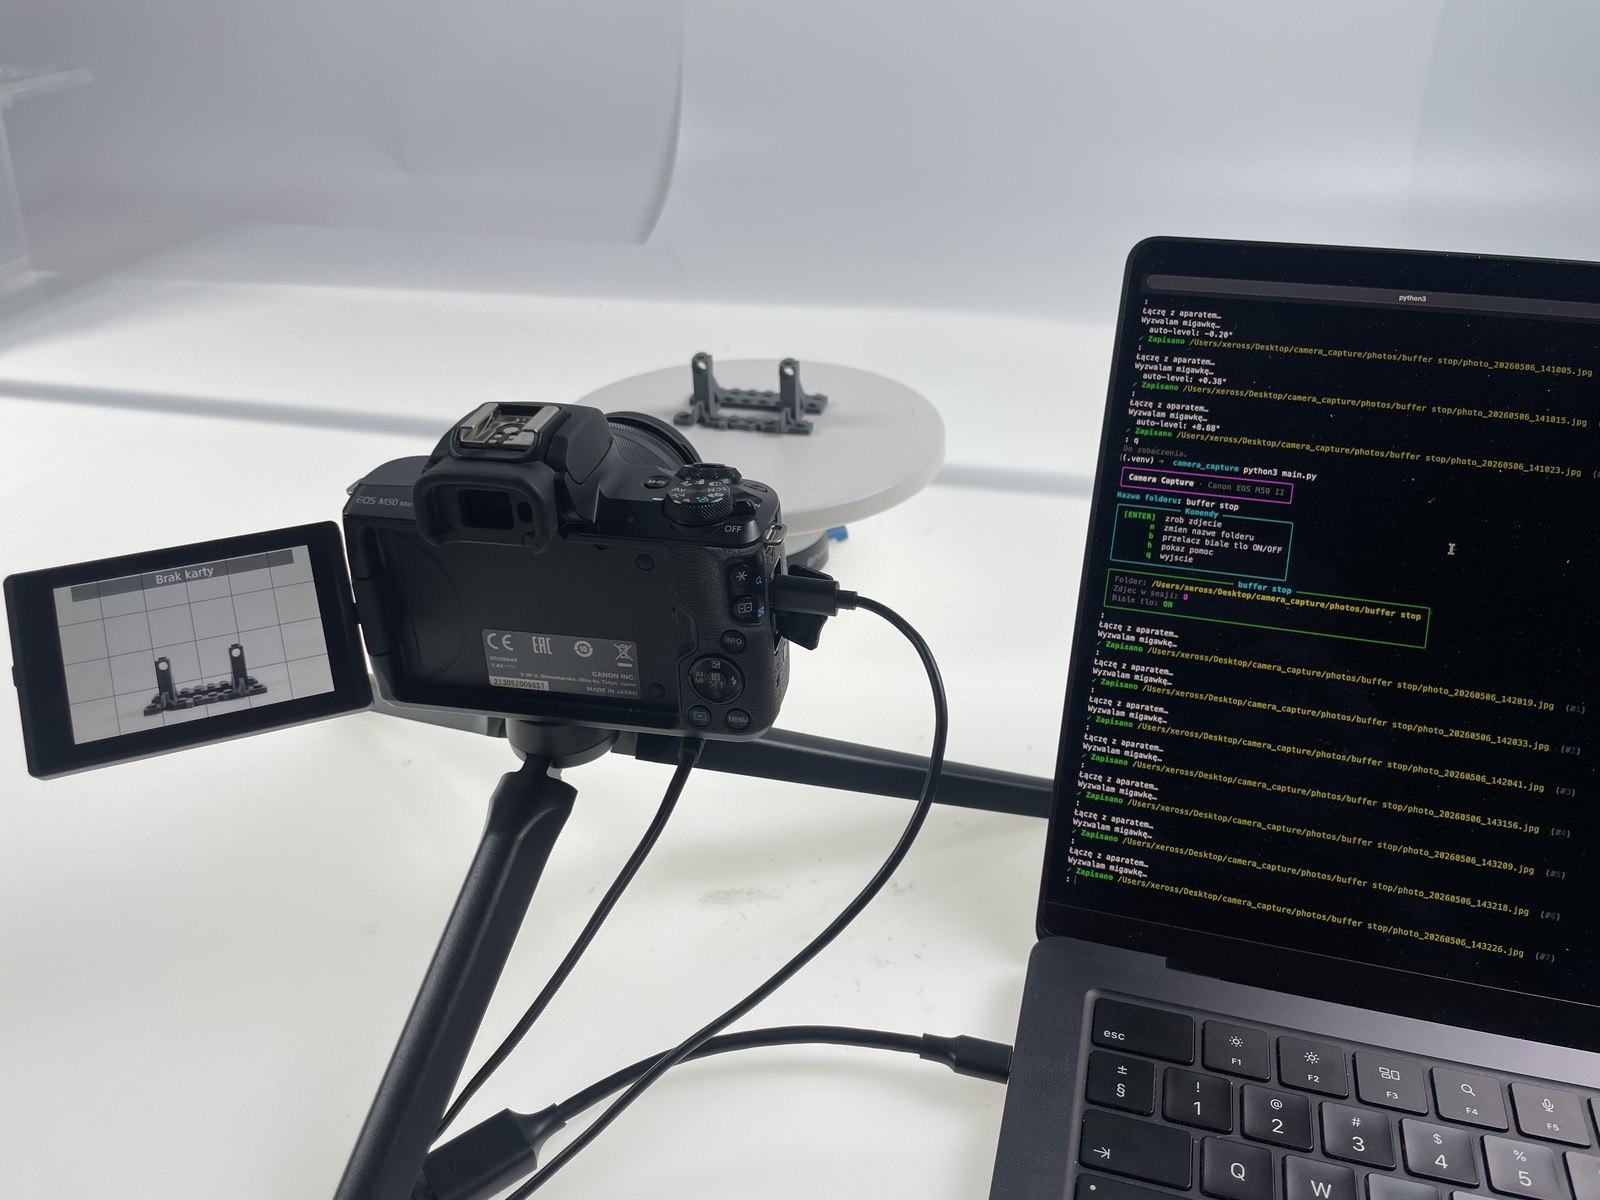
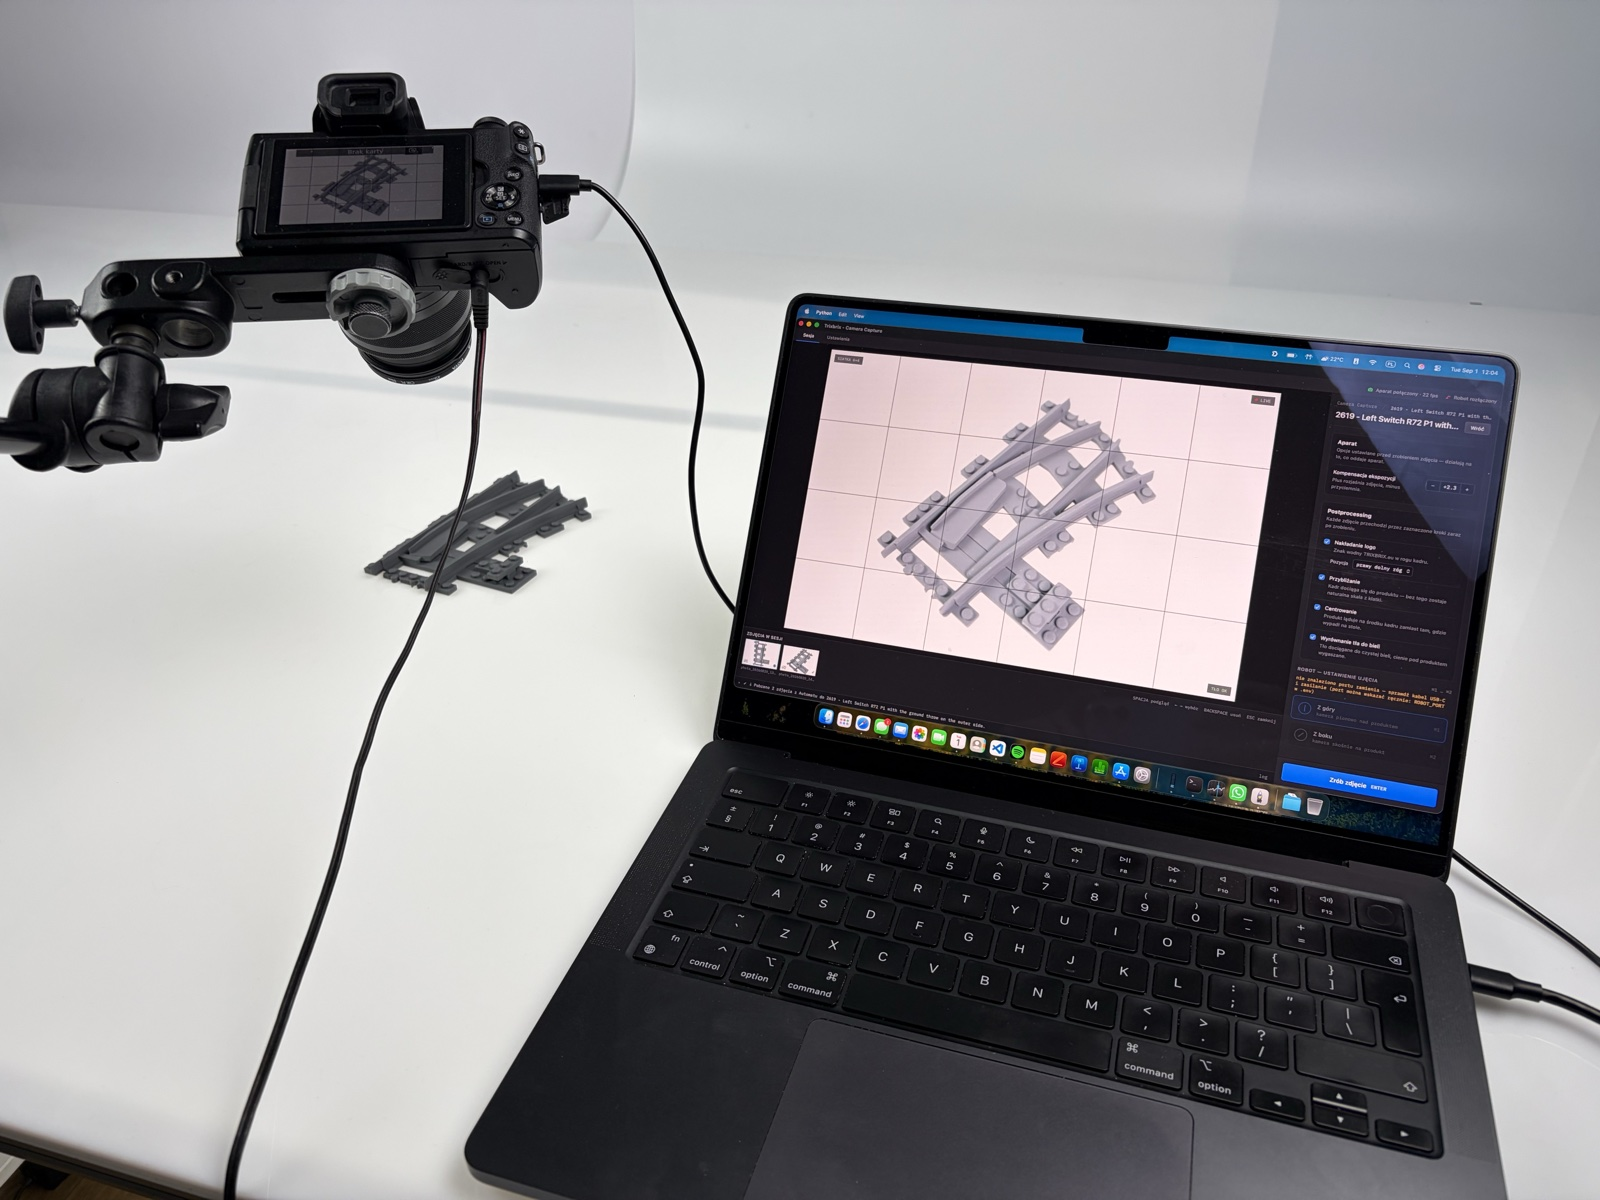
Update README with detailed setup image description and enhance context for the rig operation

diff --git a/README.md b/README.md
@@ -5,7 +5,12 @@ Hit `ENTER` in the terminal: a Canon EOS M50 fires, the background is
 removed, the product is centered and watermarked, and a 3000×3000 JPEG
 lands on disk ready to upload.
 
-![Setup](assets/readme/setup.jpg)
+![Setup: camera on a tethered arm, desktop app with live preview](assets/readme/setup.jpg)
+
+The rig, driven from the desktop app (`python3 gui.py`): live view
+from the camera with a framing grid, exposure compensation and
+post-processing toggles in the sidebar, and the session filmstrip
+filling up as you shoot.
 
 ## Why I built this
 
